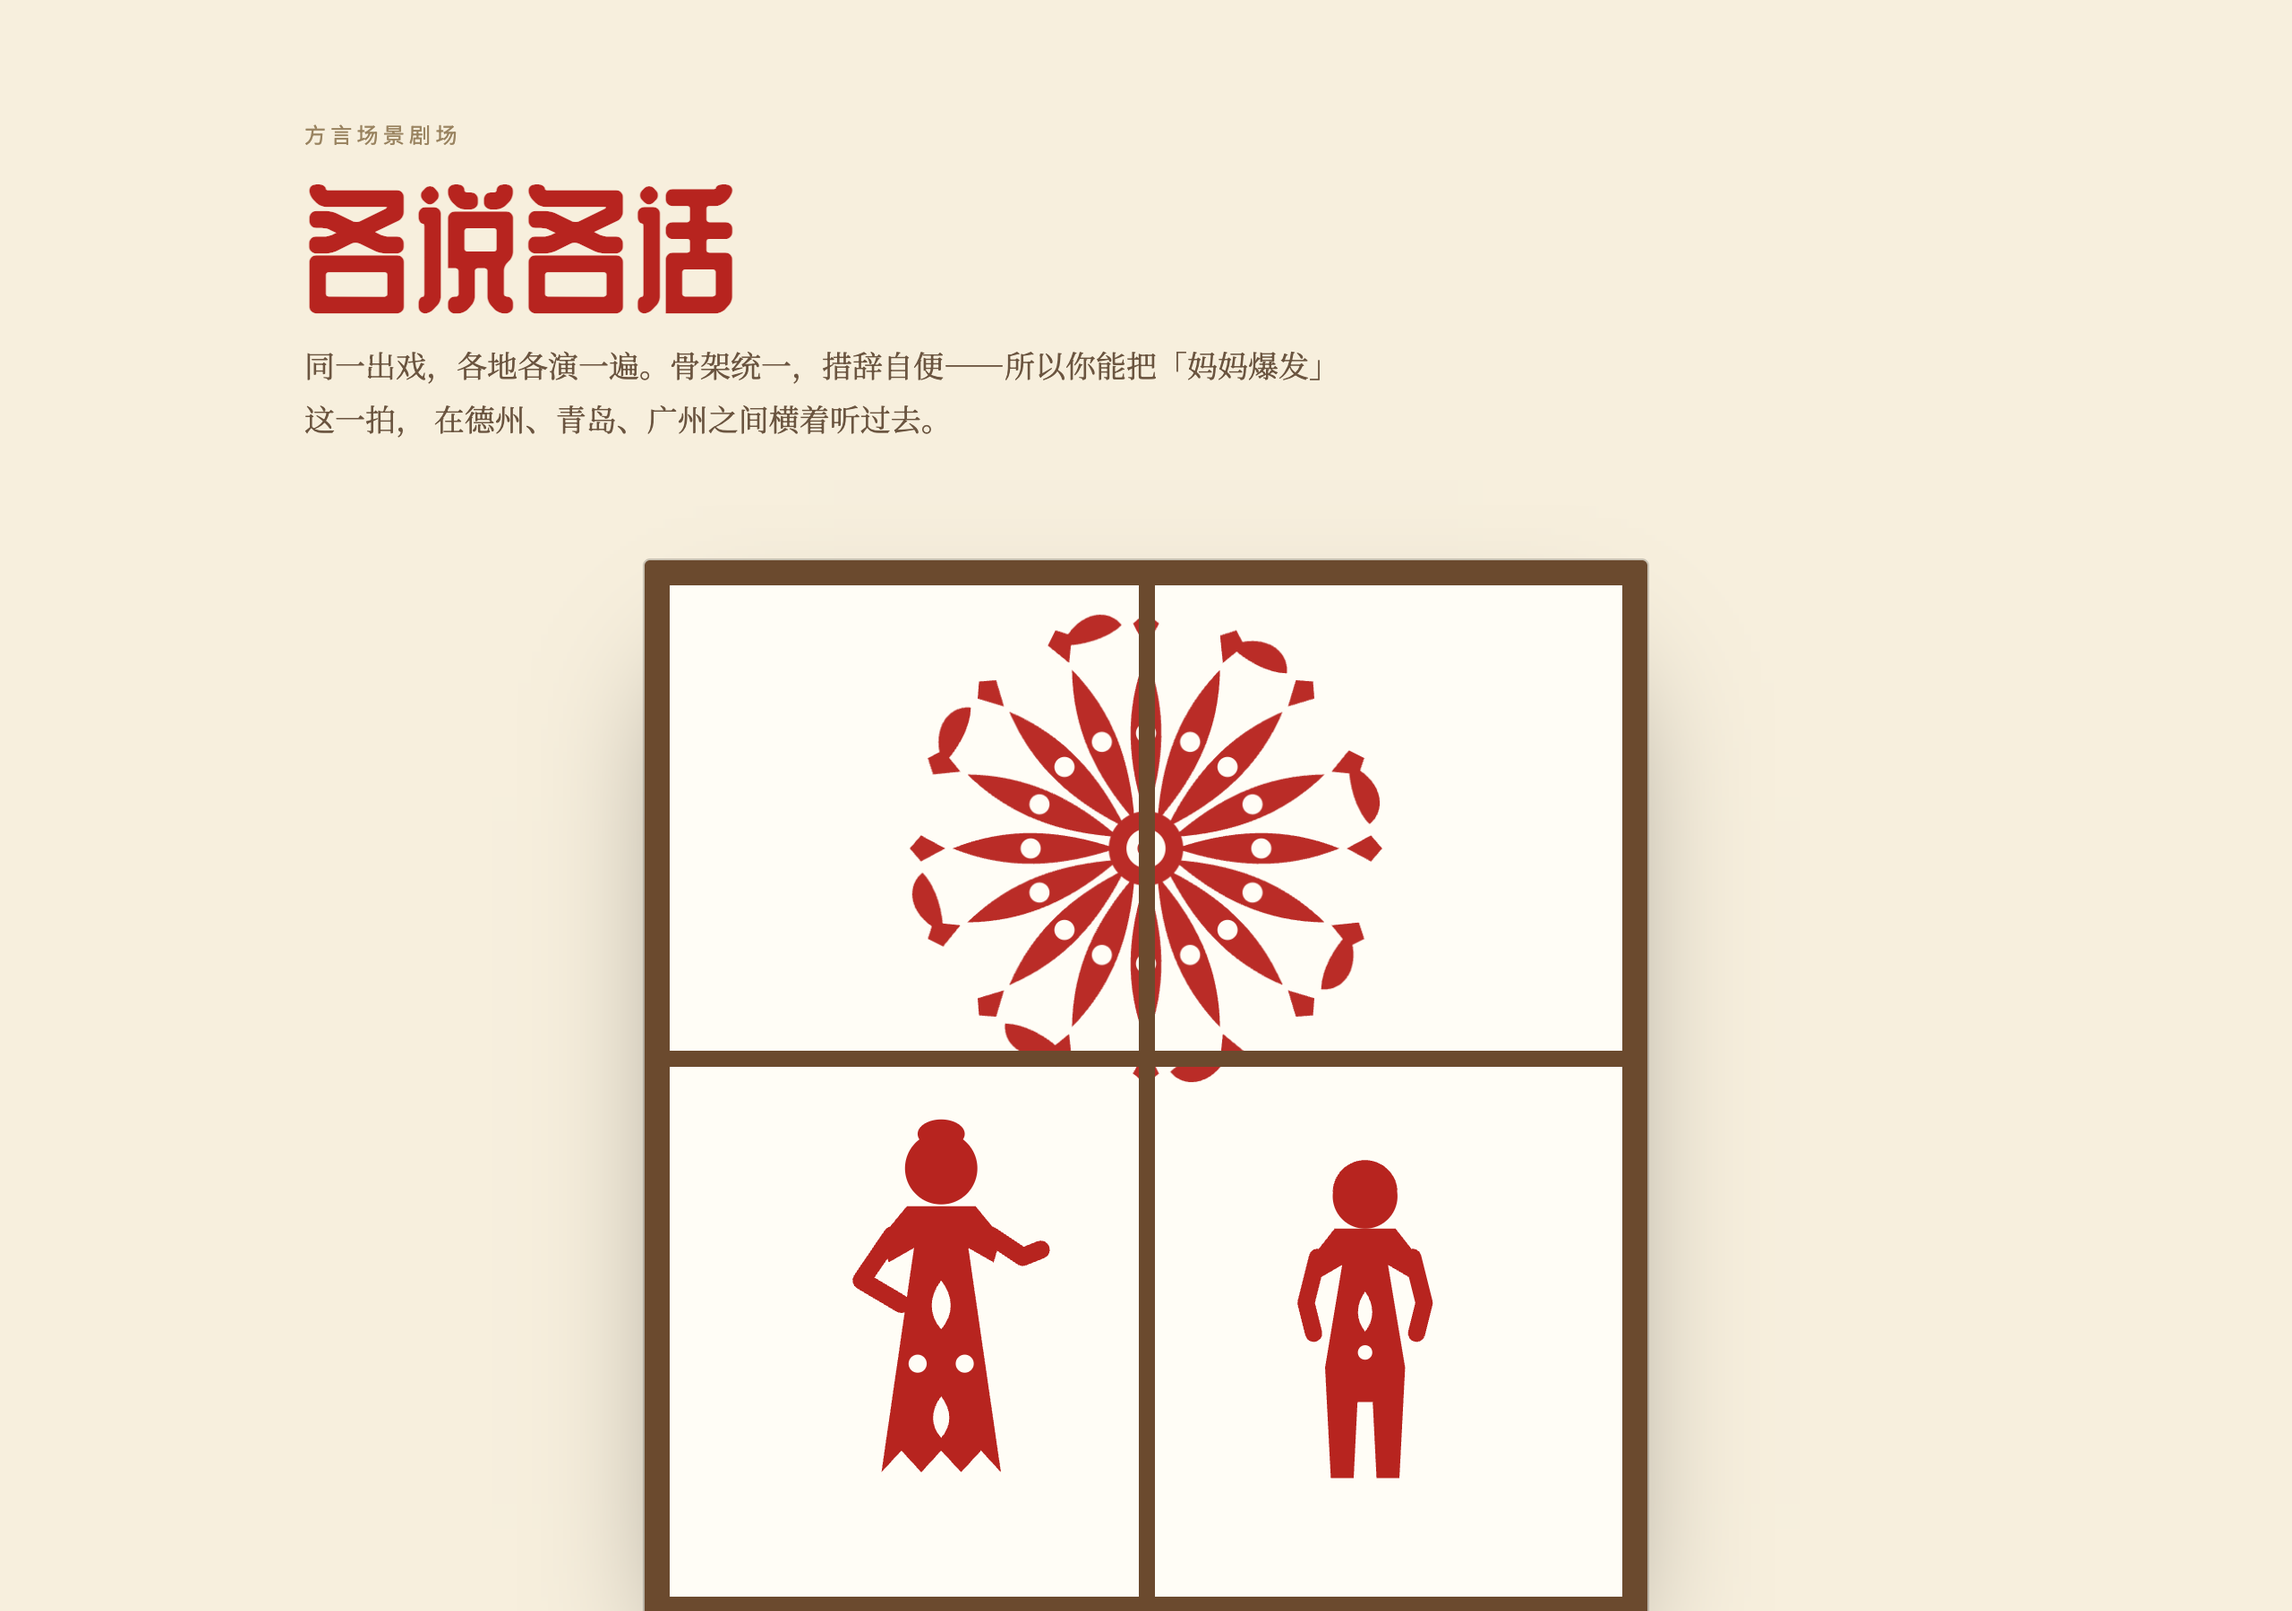
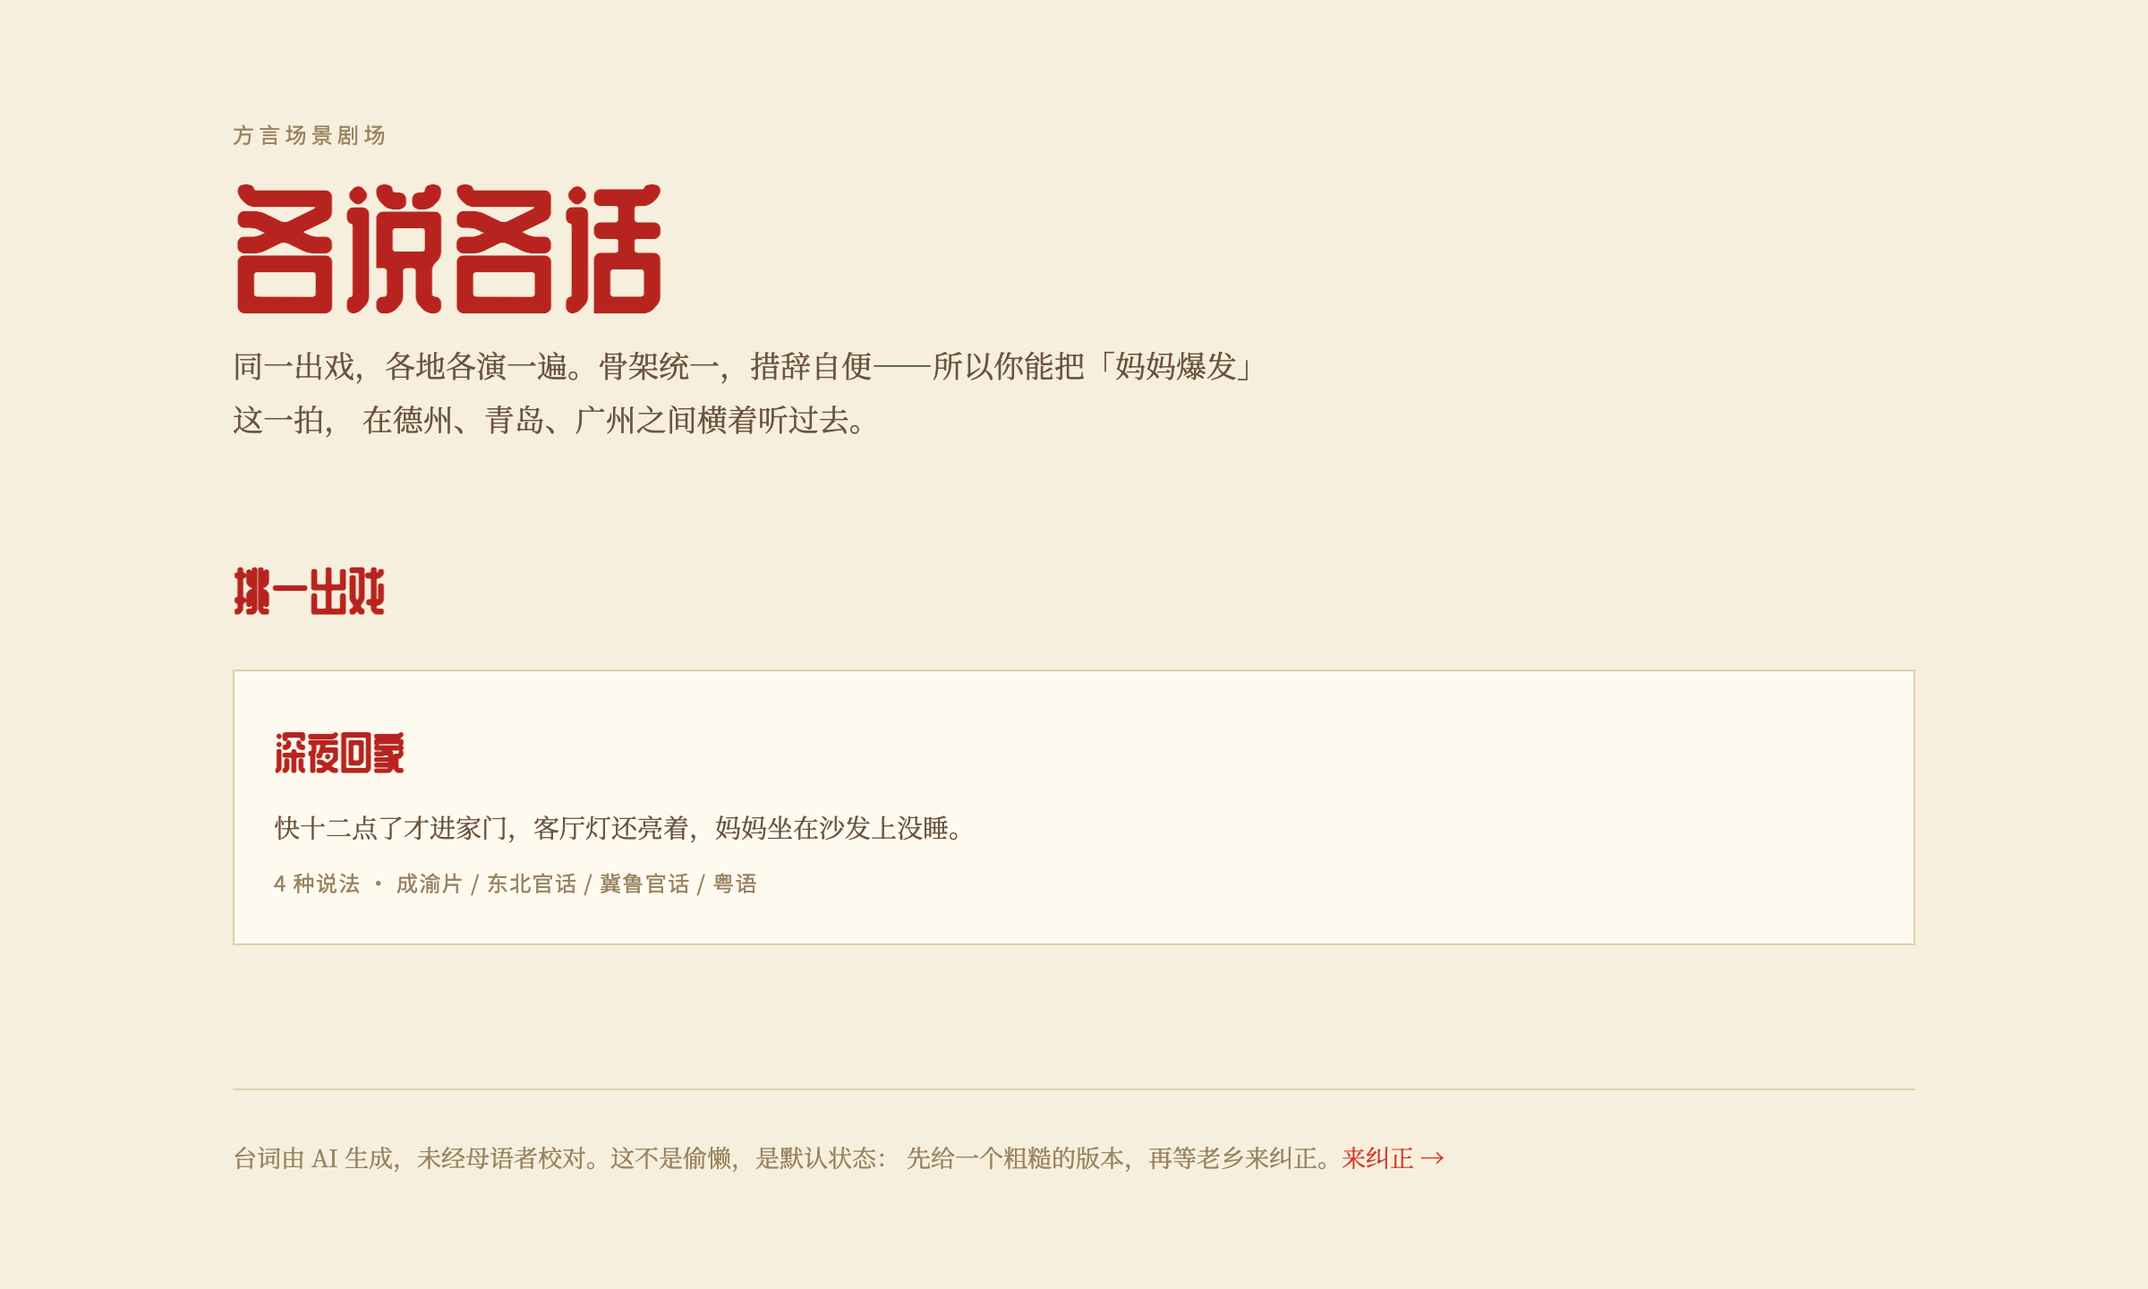
chore: 收紧剪纸窗撤走后的空隙，按新版式重拍 README 截图
剪纸窗删掉后首页 section 的 64px 上边距变成一个明显的空洞（上面已经没有
东西需要隔断了），收到 32px；场景页的标题区补 14px 下边距接住方言 chip。

README 里那两张截图拍的是带剪纸窗的旧版式，alt 文字也写着「剪纸风格的场景
插画」——按线上现状重拍并改掉描述。

Changed region(s): [[0.0938, 0.0625, 0.75, 1.0], [0.4375, 0.2188, 0.5625, 0.3125], [0.0938, 0.4375, 0.1875, 0.5]]

diff --git a/README.md b/README.md
@@ -4,7 +4,7 @@
 
 **线上：https://geshuo.pages.dev**
 
-<img src="screenshots/hero.png" width="800" alt="各说各话首页：剪纸风格的场景插画"/>
+<img src="screenshots/hero.png" width="800" alt="各说各话首页：站名、一句话说明，和「深夜回家」这一出戏的入口，标着 4 种说法——成渝片 / 东北官话 / 冀鲁官话 / 粤语"/>
 
 <img src="screenshots/scene.png" width="800" alt="逐拍对齐的方言台词，每句带普通话对照、词条注释、语音播放，以及「AI 生成 · 未经母语者校对」的诚实标记"/>
 
